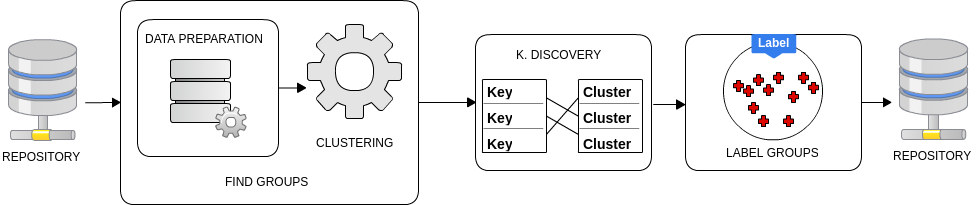
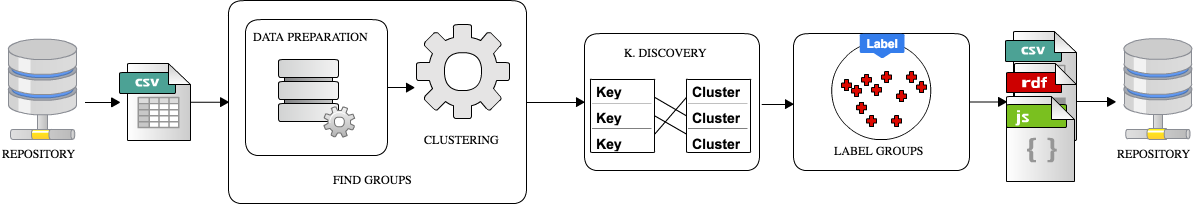
Add discover knowledge section

diff --git a/slides/index.md b/slides/index.md
@@ -133,26 +133,116 @@
 ---
 
 ### Pattern Detection
-#### Proceso para la extracción de conocimiento
+#### Proceso para detección de areas y redes de colaboración
 
 ![](images/pdetection.png)
 
-*Find groups* detectar patrones de los datos almacenados en el repositorio central.
 
-*Knowledge Discovery* asociar patrones a un formato legible por un humano. Se descubre redes de colaboracón y áreas de
+<div style="font-size: 80%; text-align: justify;">
+<span style="color: red;">Find groups</span> detectar patrones de los datos almacenados en el repositorio central.
+
+<div class="fragment">
+<span style="color: red;">Knowledge Discovery</span> asociar patrones a un formato legible por un humano. Se descubre redes de colaboración y áreas de
 conocimiento.
+</div>
 
-*Label Groups* Se encuentra una etiqueta para cada cluster, ayuda a acelerar consultar y mantener la información
+<div class="fragment">
+<span style="color: red;">Label Groups</span> Se encuentra una etiqueta a cada cluster, ayuda a acelerar consultar y mantener la información
 organizada en el repositorio.
+</div>
+<div>
 
 ---
 
-### Pattern Detection
-#### Extracto de resultados obtenidos
+### Find Groups
+
+![](images/findgroups.png)
+
+---
+
+### Knowledge Discovery
+
+<table style="width:100%">
+  <tr>
+    <th style="width: 30%; vertical-align: middle;"><img src="images/fgroups_files.png" alt=""></th>
+    <th class="fragment" style="width: 70%"><img src="images/find_groups_process.png" alt=""></th>
+  </tr>
+</table>
+
+---
+
+# Topic Model + WordNet
+
+<div class="fragment">
+# =
+# Label
+</div>
+
+---
+### Topic Model
+![](images/lda.png)
+
+[Imagen de *David M. Blei* - Probabilistic Topic Models ](http://www.cs.princeton.edu/~blei/kdd-tutorial.pdf)
+
+' Frecuencia Distribución de palabras/topicos
+' Numero de topicos
+' Varios documentos a varios topicos
+
+---
+
+### Label Groups
+
+![](images/etiqueta.png)
+
+---
+
+### Datos listos para ser explotados
+
+![](images/export.png)
+
+---
+
+### Resultados
 
 ![](images/redes.png)
 
-e debe tener en cuenta que para mejorar la calidad de los resultados, se debe mejorar la calidad de los datos de las diferentes **bases bibliográficas** para obtener aún mejores resultados.
+---
+
+<script type="text/javascript" src="https://www.google.com/jsapi"></script>
+<script type="text/javascript">
+    google.load("visualization", "1", {packages:["corechart"]})
+    google.setOnLoadCallback(drawChart);
+function drawChart() {
+    var data = new google.visualization.DataTable({"cols": [{"type": "string" ,"id": "Column 1" ,"label": "Column 1" }, {"type": "number" ,"id": "Column 2" ,"label": "Publicaciones" }], "rows" : [{"c" : [{"v": "Carvallo Vega, Juan Pablo"}, {"v": 24}]}, {"c" : [{"v": "Solano Quinde, Lizandro Damián"}, {"v": 9}]}, {"c" : [{"v": "Vanegas Peña, Paúl Fernando"}, {"v": 9}]}, {"c" : [{"v": "Espinoza Molina, Daniela"}, {"v": 8}]}, {"c" : [{"v": "Baquero Larriva, Andrés Orlando"}, {"v": 7}]}, {"c" : [{"v": "Saquicela Galarza, Víctor Hugo"}, {"v": 5}]}, {"c" : [{"v": "Abril Pozo, Daniel Andrés"}, {"v": 5}]}]});
+    var options = {"hAxis":{"title":"Número de publicaciones","viewWindowMode":"explicit","viewWindow":{"min":0}},"legend":{"position":"none"},"title":"Investigadores Relevantes","width":1000,"height":600}
+    var chart = new google.visualization.BarChart(document.getElementById('d58646cc-a055-47d1-8d4f-d9a17025c2d1'));
+    chart.draw(data, options);
+}
+</script>
+<div id="d58646cc-a055-47d1-8d4f-d9a17025c2d1" style="width: 800px; height: 600px;"></div>
+
+---
+
+<table style="width:100%">
+  <tr>
+    <th style="width: 35%; vertical-align: middle;">
+      <h4 style="text-align: center">Areas Relevantes</h4>
+      <img src="images/wordcloud.png" alt="">
+    </th>
+    <th class="fragment" style="width: 65%">
+      <h4>Areas de colaboración</h4>
+      <img src="images/colaboracion.png" alt="">
+    </th>
+  </tr>
+</table>
+
+---
+
+
+# __¿Más?__
+
+
+[![](images/redi.png)](http://redi.cedia.org.ec/)
 
 ***
 
@@ -162,6 +252,7 @@ e debe tener en cuenta que para mejorar la calidad de los resultados, se debe me
 - Considerar que incluso para una persona es complicado determinar cierta información sobre un investigador o varios investigadores que pueden trabajar en conjunto. Por lo que aun es un reto a nivel computacional.
 - Además como resultado se cuenta con un repositorio centralizado y se provee el uso de estos datos a cualquier persona.
 
+
 ***
 
 ### Trabajos Futuros
@@ -170,9 +261,11 @@ e debe tener en cuenta que para mejorar la calidad de los resultados, se debe me
 - Mejorar el proceso de etiquetado.
 - Analizar nuevos algoritmos de clustering o otras técnicas para encontrar agrupaciones.
 
-__¿Mas información?__
+***
 
-[http://redi.cedia.org.ec/](http://redi.cedia.org.ec/)
+# CLEI 2016
+
+![](images/clei.png)
 
 ***
 
